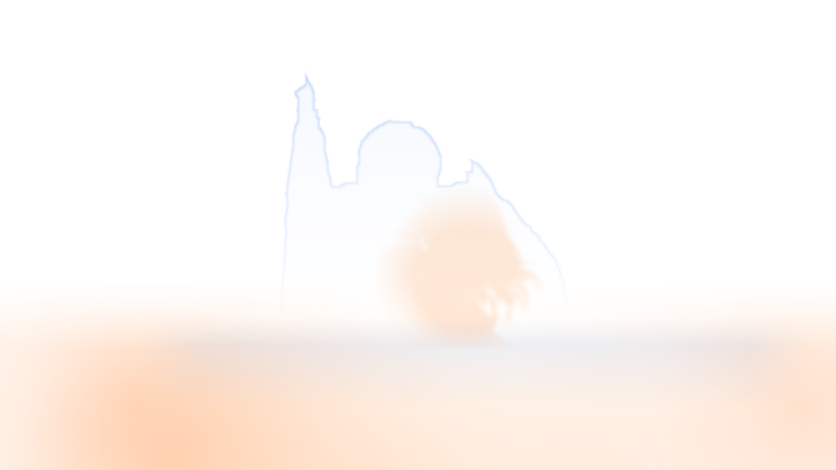
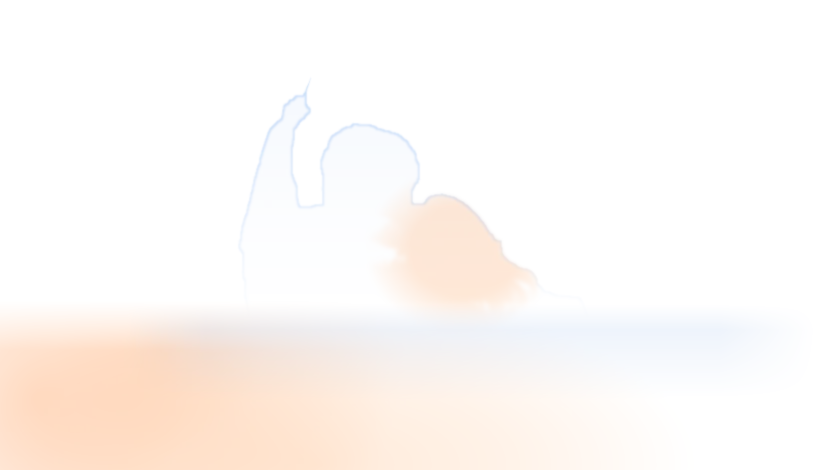
Cảnh ngắm tuyết: dùng bộ ảnh mới (khăn len, chỉ tay, xoa đầu); dựng lại mặt nạ và ánh sáng cho 3 dáng
Claude-Session: https://claude.ai/code/session_018LWP6QAxse55v6Pm2E99MN

diff --git a/src/scenes/SnowWatch.tsx b/src/scenes/SnowWatch.tsx
@@ -37,7 +37,7 @@ function SnowFall({ active }: { active: boolean }) {
       const z = Math.random() ** 1.3, crystal = Math.random() < 0.26
       const spr = crystal ? crystals[Math.floor(Math.random() * crystals.length)] : orbs[z > 0.78 ? 2 : z > 0.45 ? 1 : 0]
       const size = crystal ? 20 + z * 36 : z > 0.75 ? 44 + z * 44 : 8 + z * 36
-      return { x: Math.random() * L.w, y: top ? -50 : Math.random() ** 1.15 * 660, z, ph: Math.random() * 6.28, spr, size, a: (crystal ? 0.7 : 0.55) + z * 0.4, rot: Math.random() * 6.28, spin: (Math.random() - 0.5) * 0.28, crystal }
+      return { x: Math.random() * L.w, y: top ? -50 : Math.random() ** 1.15 * 600, z, ph: Math.random() * 6.28, spr, size, a: (crystal ? 0.7 : 0.55) + z * 0.4, rot: Math.random() * 6.28, spin: (Math.random() - 0.5) * 0.28, crystal }
     }
     ctx.imageSmoothingQuality = 'high'
     const fl = Array.from({ length: n }, () => mk(false))
@@ -52,9 +52,9 @@ function SnowFall({ active }: { active: boolean }) {
         f.y += (22 + f.z * 80) * dt
         f.x += (weather.sway(t, f.ph) * (10 + f.z * 40) + Math.sin(t / 900 + f.ph) * 7 * f.z) * dt
         f.rot += f.spin * dt
-        if (f.y > 676) { f = fl[i] = mk(true) }
+        if (f.y > 616) { f = fl[i] = mk(true) }
         if (f.x > L.w + 40) f.x = -40; else if (f.x < -40) f.x = L.w + 40
-        const top = Math.max(0, 1 - f.y / 640) // dày và sáng ở phía trên, mờ dần xuống dưới
+        const top = Math.max(0, 1 - f.y / 590) // dày và sáng ở phía trên, mờ dần xuống dưới
         ctx.globalAlpha = Math.min(1, f.a * (0.22 + 1.0 * top ** 0.7))
         if (f.crystal) { ctx.save(); ctx.translate(f.x, f.y); ctx.rotate(f.rot); ctx.drawImage(f.spr, -f.size / 2, -f.size / 2, f.size, f.size); ctx.restore() }
         else ctx.drawImage(f.spr, f.x - f.size / 2, f.y - f.size / 2, f.size, f.size)
@@ -266,7 +266,7 @@ function Fog({ active, wipeRef }: { active: boolean; wipeRef: React.MutableRefOb
     // lớp hơi nước gốc
     const tx = document.createElement('canvas'); tx.width = W; tx.height = H
     const tc = tx.getContext('2d')!
-    const gr = tc.createLinearGradient(0, 0, 0, 636 * K)
+    const gr = tc.createLinearGradient(0, 0, 0, 608 * K)
     gr.addColorStop(0, 'rgba(206,222,242,.26)'); gr.addColorStop(1, 'rgba(222,233,247,.58)')
     tc.fillStyle = gr
     L.panes.forEach(([x, y, w, h]) => tc.fillRect(x * K, y * K, w * K, h * K))
@@ -351,7 +351,7 @@ function Fog({ active, wipeRef }: { active: boolean; wipeRef: React.MutableRefOb
           for (let k = 0; k <= 3; k++) stamp(d.x + (nx - d.x) * (k / 3), d.y + (ny - d.y) * (k / 3), r, 190, true)
           d.len += ny - d.y; d.x = nx; d.y = ny
         }
-        if (d.len > d.max || d.y > 630 * K) { drips.splice(i, 1) }
+        if (d.len > d.max || d.y > 600 * K) { drips.splice(i, 1) }
         dirty = true
       }
       tFade += dt
@@ -413,11 +413,14 @@ export default function SnowWatch({ active }: { active: boolean }) {
     const next = (first: boolean) => at(first ? 5000 + Math.random() * 4000 : 14000 + Math.random() * 18000, go)
     const go = () => {
       if (document.hidden) { next(false); return }
-      const kind = pickKind()
-      if (Math.random() < 0.75) {
+      const kind = pickKind(), r = Math.random()
+      if (r < 0.5) { // anh chỉ tay lên trời đúng lúc sao băng bay qua
         setPose(1); at(FADE / 2, () => setMaskPose(1))
         at(FADE + 150, () => setFire((f) => ({ n: f.n + 1, kind })))
         at(POSE_HOLD, () => { setPose(0); at(FADE / 2, () => setMaskPose(0)); at(FADE, () => next(false)) })
+      } else if (r < 0.78) { // anh xoa đầu cô gái, không có sao băng
+        setPose(2); at(FADE / 2, () => setMaskPose(2))
+        at(POSE_HOLD - 1000, () => { setPose(0); at(FADE / 2, () => setMaskPose(0)); at(FADE, () => next(false)) })
       } else { setFire((f) => ({ n: f.n + 1, kind })); next(false) }
     }
     next(true)
@@ -443,7 +446,8 @@ export default function SnowWatch({ active }: { active: boolean }) {
       <div className="sec-frame" ref={host}>
         <div className="tr-stage" ref={stage} style={{ width: L.w, height: L.h, transform: `translate(${g.x}px, ${g.y}px) scale(${g.s})` }}>
           <img className="sw-img" src={L.poses[0].src} alt="Hai người ngồi sát nhau dưới chăn len, quay lưng nhìn tuyết rơi ngoài cửa sổ lớn" draggable={false} />
-          <img className={`sw-img sw-top${pose ? ' on' : ''}`} src={L.poses[1].src} alt="" draggable={false} />
+          <img className={`sw-img sw-top${pose === 1 ? ' on' : ''}`} src={L.poses[1].src} alt="" draggable={false} />
+          <img className={`sw-img sw-top${pose === 2 ? ' on' : ''}`} src={L.poses[2].src} alt="" draggable={false} />
 
           {/* tắt đèn: bản đồ tối và ánh ấm đã dựng sẵn thành ảnh (cả phòng tối đi trừ ô kính, hai người tối riêng, ánh nến ấm trải theo một trường sáng chung);
               chỉ đổi độ trong suốt nên không có mặt nạ CSS phải tính lại mỗi khung hình */}

diff --git a/src/scenes/snowLayout.ts b/src/scenes/snowLayout.ts
@@ -1,11 +1,15 @@
 import base from '../assets/snow-land.webp'
 import point from '../assets/snow-land-point.webp'
+import pat from '../assets/snow-land-pat.webp'
 import hide1 from '../assets/snow-hide-1.png'
 import hide2 from '../assets/snow-hide-2.png'
+import hide3 from '../assets/snow-hide-3.png'
 import dark1 from '../assets/snow-dark-1.webp'
 import dark2 from '../assets/snow-dark-2.webp'
+import dark3 from '../assets/snow-dark-3.webp'
 import warm1 from '../assets/snow-warm-1.webp'
 import warm2 from '../assets/snow-warm-2.webp'
+import warm3 from '../assets/snow-warm-3.webp'
 
 /**
  * Cảnh ngắm tuyết. Toạ độ theo ảnh gốc 1672x941. Các ảnh dáng ngồi cùng một khung nên chuyển mờ là khớp.
@@ -14,18 +18,19 @@ import warm2 from '../assets/snow-warm-2.webp'
  */
 export type Pose = { src: string; hide: string }
 /** Bản đồ ánh sáng khi tắt đèn, dựng sẵn cho từng dáng ngồi (khung 836x470, kéo giãn ra khung ảnh): lớp tối (cả phòng + hai người, theo một trường sáng chung quanh các ngọn nến) và lớp ánh ấm. */
-export const LM = { dark: [dark1, dark2], warm: [warm1, warm2] }
+export const LM = { dark: [dark1, dark2, dark3], warm: [warm1, warm2, warm3] }
 export const SNOW = {
   w: 1672, h: 941,
-  panes: [[285, 0, 135, 636], [480, 0, 818, 636], [1360, 0, 262, 636]] as [number, number, number, number][],
+  panes: [[254, 10, 158, 598], [457, 8, 936, 602], [1440, 8, 196, 602]] as [number, number, number, number][],
   /** Tâm của hai người (để căn khung trên điện thoại). */
   focus: { x1: 380, x2: 1260, y1: 120, y2: 900 },
-  /** Ba ngọn nến (x, y, độ mạnh): khi tắt đèn, phòng tối đi và chỉ còn ánh các ngọn lửa này. */
-  flames: [[345, 912, 1], [264, 801, 0.7], [1608, 815, 1]] as [number, number, number][],
-  /** Chiếc đèn bàn bên trái: bấm vào để tắt hoặc bật đèn. */
-  lamp: [[0, 487], [103, 487], [147, 666], [147, 677], [66, 679], [64, 702], [97, 724], [99, 788], [62, 800], [0, 800]] as [number, number][],
+  /** Hai ngọn nến (x, y, độ mạnh): khi tắt đèn, phòng tối đi và chỉ còn ánh các ngọn lửa này. */
+  flames: [[75, 795, 1], [320, 700, 0.7]] as [number, number, number][],
+  /** Chiếc đèn bàn bên trái (chao đèn kem): bấm vào để tắt hoặc bật đèn. */
+  lamp: [[190, 365], [320, 365], [350, 527], [262, 530], [262, 600], [270, 650], [265, 700], [240, 760], [222, 700], [232, 650], [232, 530], [145, 527]] as [number, number][],
   poses: [
     { src: base, hide: hide1 },
     { src: point, hide: hide2 },
+    { src: pat, hide: hide3 },
   ] as Pose[],
 }

diff --git a/tools/snow/bake-light.py b/tools/snow/bake-light.py
@@ -6,9 +6,9 @@ import os; HERE=os.path.dirname(os.path.abspath(__file__)); A=os.path.join(HERE,
 W,H=836,470
 xs=(np.arange(W)+.5)*2; ys=(np.arange(H)+.5)*2
 X,Y=np.meshgrid(xs,ys)
-flames=[(345,912,1.0),(264,801,.7),(1608,815,1.0)]
-LIT=dict(x=760,y=980,rx=800,ry=360)  # vùng sáng hẹp, chỉ phủ phần chăn, gối và mặt bàn gần nến; hai người ở phía trên chìm trong bóng tối
-panes=[(285,0,135,636),(480,0,818,636),(1360,0,262,636)]
+flames=[(75,795,1.0),(320,700,.7)]  # nến trong đèn lồng và quả cầu tuyết (bàn bên trái)
+LIT=dict(x=640,y=930,rx=760,ry=340)  # vùng sáng hẹp, chỉ phủ phần chăn, gối và mặt bàn gần nến; hai người ở phía trên chìm trong bóng tối
+panes=[(254,10,158,598),(457,8,936,602),(1440,8,196,602)]
 pane=np.zeros((H,W),np.float32)
 for x,y,w,h in panes: pane[int(y/2):int((y+h)/2), int(x/2):int((x+w)/2)]=1
 notpane=1-pane
@@ -18,13 +18,13 @@ cf=np.ones_like(e)
 for fx,fy,k in flames:
     r=np.hypot(X-fx,Y-fy); cf*=np.interp(r,[0,200*k,520*k],[.2,.6,1])
 F=e*cf
-d_patch=np.sqrt(((X-70)/200)**2+((Y-560)/430)**2)
+d_patch=np.sqrt(((X-150)/250)**2+((Y-400)/400)**2)  # cây thông và đèn bàn bên trái tắt hẳn
 patch=np.interp(d_patch,[0,.55,1],[.9,.65,0])
 def over(c1,a1,c2,a2):  # c2,a2 phía trên
     a=a2+a1*(1-a2)
     c=(c2*a2[...,None]+c1*(a1*(1-a2))[...,None])/np.maximum(a,1e-6)[...,None]
     return c,a
-for n in ['1','2']:
+for n in ['1','2','3']:
     sil=cv2.imread(os.path.join(HERE,f'cut-{n}.png'),cv2.IMREAD_UNCHANGED)[...,3].astype(np.float32)/255
     # lấp các lỗ bên trong hình cắt (phần khăn bị sót) để không có vùng sáng hình thoi giữa người
     bw=(sil>0.5).astype(np.uint8)*255
@@ -32,15 +32,18 @@ for n in ['1','2']:
     fill=np.zeros_like(bw); cv2.drawContours(fill,cs,-1,255,-1)
     sil=np.maximum(sil,cv2.GaussianBlur(fill,(0,0),.8).astype(np.float32)/255)
     # mặt nạ che tuyết/hơi nước phía sau người (ngược với hình cắt, cũng đã lấp lỗ)
-    hide=np.zeros((H,W,4),np.uint8); hide[...,3]=np.clip((1-sil)*255,0,255)
+    # chao đèn bàn đứng trước ô kính bên trái: cũng che tuyết phía sau nó
+    lampm=np.zeros((H,W),np.float32); cv2.fillPoly(lampm,[np.array([[190,365],[320,365],[350,527],[145,527]])//2],1.0)
+    lampm=cv2.GaussianBlur(lampm,(0,0),.7)
+    hide=np.zeros((H,W,4),np.uint8); hide[...,3]=np.clip((1-np.maximum(sil,lampm))*255,0,255)
     cv2.imwrite(A+f'snow-hide-{n}.png',hide,[cv2.IMWRITE_PNG_COMPRESSION,9])
     sil=cv2.erode(sil,np.ones((5,5),np.uint8))  # mặt nạ cắt nở ra vài px quanh người: thu về đúng mép thật, không còn quầng tối quanh đầu
     mask=sil+(1-sil)*notpane
     # phòng tối .88; hai người gần như chìm hẳn vào bóng (.975), chỉ còn đường viền lạnh của ánh tuyết ngoài cửa sổ
     # tóc cô gái: những điểm tối trong một vùng elip quanh đầu và tóc (toạ độ khung ảnh gốc) được nâng sáng để còn thấy rõ sợi tóc và chóp đỏ
-    base=cv2.imread(A+('snow-land.webp' if n=='1' else 'snow-land-point.webp'))
+    base=cv2.imread(A+{'1':'snow-land.webp','2':'snow-land-point.webp','3':'snow-land-pat.webp'}[n])
     v=cv2.resize(cv2.cvtColor(base,cv2.COLOR_BGR2HSV)[...,2],(W,H),interpolation=cv2.INTER_AREA).astype(np.float32)/255
-    ell=np.clip(1-np.sqrt(((X-935)/190)**2+((Y-560)/190)**2),0,1); ell=np.clip(ell*2.2,0,1)
+    ell=np.clip(1-np.sqrt(((X-930)/200)**2+((Y-500)/170)**2),0,1); ell=np.clip(ell*2.2,0,1)
     hl=cv2.GaussianBlur(ell*np.clip((.55-v)*5,0,1)*sil,(0,0),2.2)
     D=F*(.88*(1-sil)*notpane+(.8*(1-hl)+.45*hl)*sil)
     D=1-(1-D)*(1-patch)
@@ -58,17 +61,17 @@ for n in ['1','2']:
     c,a=over(c,a,np.broadcast_to(np.array([255,150,70],np.float32),(H,W,3)).copy(),hl*.22)  # ánh nến ấm rất nhẹ trên tóc cô gái
     # viền sáng lạnh: ánh tuyết ngoài cửa sổ chiếu vào mặt trước hai người, nên nhìn từ phía sau chỉ thấy một đường sáng mảnh ôm theo đỉnh đầu, tóc và vai (mạnh ở phía trên, mất dần xuống thân)
     e2=cv2.erode(sil,np.ones((5,5),np.uint8)); band=cv2.GaussianBlur(np.clip(sil-e2,0,1),(0,0),.8)  # một đường mảnh ngay trong mép thật
-    rim_a=np.clip(band*np.interp(Y,[160,420,660],[.55,.3,0]),0,1)
+    rim_a=np.clip(band*np.interp(Y,[160,420,640],[.55,.3,0]),0,1)
     rim_c=np.broadcast_to(np.array([150,190,245],np.float32),(H,W,3)).copy()
     c,a=over(c,a,rim_c,rim_a)
-    fo=np.interp(Y,[560,696],[1,0]); a1=a*np.maximum(sil*fo,hl); c1=c
+    fo=np.interp(Y,[600,700],[1,0]); a1=a*np.maximum(sil*fo,hl); c1=c
     # lớp trên chăn+bàn (toàn chiều ngang): ellipse + nến
     c,a=ell_c,ell_a
     for ca in cand: c,a=over(c,a,np.broadcast_to(warm_c,(H,W,3)).copy(),ca)
     # ánh tuyết ngoài cửa sổ hắt xuống bậu cửa, gối và mặt chăn gần cửa: một dải xanh lạnh nhạt ngay dưới mép kính, rộng bằng khung cửa
-    sp_x=np.interp(X,[285,420,1500,1622],[0,1,1,0]); sp_a=np.interp(Y,[636,690,820],[0,.15,0])*sp_x
+    sp_x=np.interp(X,[254,412,1440,1636],[0,1,1,0]); sp_a=np.interp(Y,[608,660,800],[0,.15,0])*sp_x
     sp_c=np.broadcast_to(np.array([140,178,232],np.float32),(H,W,3)).copy()
-    fi=np.interp(Y,[560,696],[0,1]); a2=a*fi; c2=c
+    fi=np.interp(Y,[600,700],[0,1]); a2=a*fi; c2=c
     c2,a2=over(c2,a2,sp_c,sp_a)
     co,ao=over(c1,a1,c2,a2)
     warm=np.zeros((H,W,4),np.uint8); warm[...,:3]=np.clip(co,0,255); warm[...,3]=np.clip(ao*255,0,255)

diff --git a/HANDOFF.md b/HANDOFF.md
@@ -180,3 +180,8 @@ npx tsc -b        # kiểm tra kiểu
 - Bông tuyết là **vector phẳng** (nét dày, màu kem `#ecdcae` như bảng mẫu Long gửi), 9 mẫu trong `src/lib/snowflakes.ts` (`drawFlake(ctx, design, scale, color)`).
 - Chuyển cảnh hai bé -> ngắm tuyết vẽ bằng **canvas theo thanh cuộn** (`src/components/FlakeFx.tsx`, hàm vẽ nhận qua ref `flakeDraw` trong `WorldScroll.tsx`): bông tuyết nằm ngang (dẹt như đĩa, `scaleY = cos(tilt)`, tilt 78 -> 0 độ) xoay chậm, dựng đứng đối diện người xem, rồi bay thẳng ra phía trước (tăng cỡ theo hàm mũ), che kín màn hình (lớp kem lấp khe), cảnh đổi tại `NEXTR = 0.58`, rồi tan. Trước đây dùng SVG/CSS phóng to rất lớn nên vỡ nét và nháy (Long báo "glitch đau mắt"); canvas vẽ lại ở đúng cỡ mỗi khung nên không còn. `SPAN3 = 1.5`.
 - Tuyết rơi: bông pha lê dùng cùng mẫu vector, quay chậm hơn nhiều (tránh nhấp nháy răng cưa khi xoay sprite nhỏ), sprite 128px.
+
+### Bộ ảnh mới của cảnh ngắm tuyết (Long gửi lại: khăn len ô-liu không đuôi, áo phao, cây thông + người tuyết + đèn bàn)
+- `snow-land.webp` (ngồi sát, ảnh nền), `snow-land-point.webp` (anh chỉ tay lên trời), `snow-land-pat.webp` (anh xoa đầu cô gái), khung 1672x941. Ô kính mới: `[254,10,158,598] [457,8,936,602] [1440,8,196,602]`. Hai ngọn nến (đèn lồng, quả cầu tuyết), đèn bàn chao kem bên trái (`SNOW.lamp`). `tools/snow/bake-light.py` đã chỉnh cho 3 dáng; `tools/snow/cut-1..3.png` là hình cắt hai người (grabCut + elip lấp khăn).
+- Lịch ngẫu nhiên (`SnowWatch.tsx`): 50% chỉ tay + sao băng, 28% xoa đầu (không sao băng), còn lại chỉ có sao băng.
+- Chưa có ảnh dọc cho điện thoại; ảnh 4K chưa dùng (đang dùng bản 1672x941 Long gửi).
